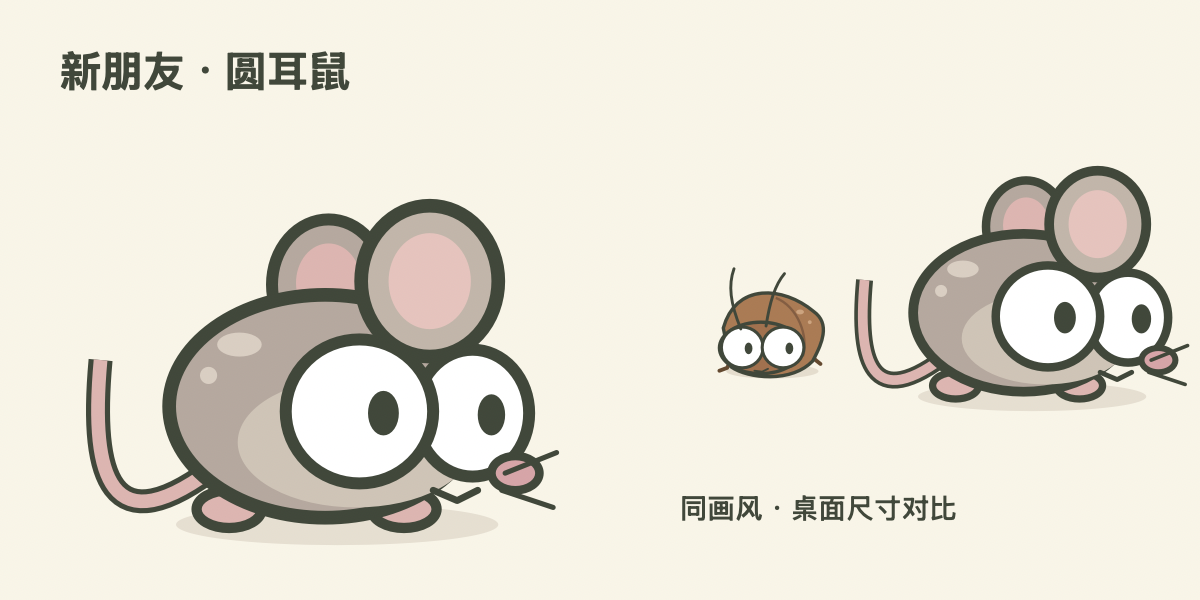
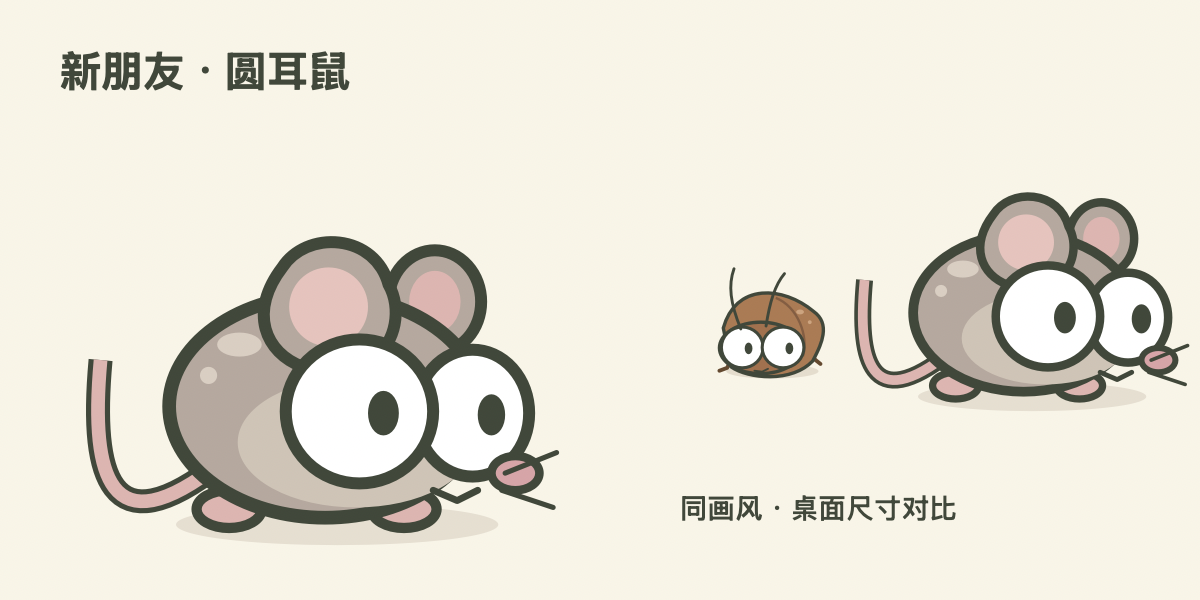
Refine mouse ears with natural placement and open ear roots

Changed region(s): [[0.2158, 0.33, 0.4317, 0.63], [0.8017, 0.27, 0.9867, 0.48]]

diff --git a/Sources/Art.swift b/Sources/Art.swift
@@ -122,12 +122,17 @@ func drawFriend(in box:NSRect,cat:Bool,phase:Double,facing:Double=1){
         let tail=NSBezierPath();tail.move(to:NSPoint(x:99,y:100));tail.curve(to:NSPoint(x:134,y:70+wig),controlPoint1:NSPoint(x:132,y:126),controlPoint2:NSPoint(x:137,y:103));ink.setStroke();tail.lineWidth=7;tail.stroke();color(0xDCA3A0).setStroke();tail.lineWidth=4;tail.stroke()
         oval(NSRect(x:18,y:112,width:94,height:12),color(0x765845,0.16))
         for x in [36.0,87.0] {oval(NSRect(x:x+wig,y:108,width:19,height:11),color(0xDCA3A0),stroke:ink,width:3)}
-        oval(NSRect(x:51,y:29,width:33,height:38),color(0xA9978C),stroke:ink,width:3.5)
-        oval(NSRect(x:58,y:36,width:19,height:23),color(0xDCA3A0))
+        oval(NSRect(x:23,y:38,width:27,height:30),color(0xA9978C),stroke:ink,width:3.5)
+        oval(NSRect(x:29,y:44,width:15,height:18),color(0xDCA3A0))
         oval(NSRect(x:23,y:51,width:91,height:65),color(0xA9978C),stroke:ink,width:4)
         oval(NSRect(x:25,y:75,width:69,height:38),color(0xC6B7A6))
-        oval(NSRect(x:18,y:25,width:40,height:44),color(0xB7A698),stroke:ink,width:4)
-        oval(NSRect(x:26,y:33,width:24,height:28),color(0xE6B4AE))
+        // The near ear grows out of the head: leave the base contour open.
+        let ear=NSBezierPath();ear.move(to:NSPoint(x:54,y:69))
+        ear.curve(to:NSPoint(x:50,y:48),controlPoint1:NSPoint(x:48,y:65),controlPoint2:NSPoint(x:46,y:55))
+        ear.curve(to:NSPoint(x:81,y:43),controlPoint1:NSPoint(x:54,y:33),controlPoint2:NSPoint(x:74,y:32))
+        ear.curve(to:NSPoint(x:75,y:72),controlPoint1:NSPoint(x:91,y:56),controlPoint2:NSPoint(x:86,y:68))
+        color(0xA9978C).setFill();ear.fill();ink.setStroke();ear.lineWidth=3.5;ear.lineCapStyle = .round;ear.stroke()
+        oval(NSRect(x:56,y:43,width:23,height:23),color(0xE6B4AE))
         oval(NSRect(x:87,y:62,width:13,height:7),color(0xD3C3B4))
         oval(NSRect(x:100,y:72,width:5,height:5),color(0xD3C3B4))
         oval(NSRect(x:9,y:67,width:33,height:37),.white,stroke:ink,width:3.5)

diff --git a/Windows/Art.cs b/Windows/Art.cs
@@ -36,9 +36,12 @@ static class Art {
             Oval(g,Color.FromArgb(40,118,88,69),18,112,94,12);
             foreach(float x in new[]{36f,87f})Oval(g,Color.FromArgb(220,163,160),x+wig,108,19,11,Ink,3);
             var fur=Color.FromArgb(169,151,140);var blush=Color.FromArgb(220,163,160);
-            Oval(g,fur,51,29,33,38,Ink,3.5f);Oval(g,blush,58,36,19,23);
+            Oval(g,fur,23,38,27,30,Ink,3.5f);Oval(g,blush,29,44,15,18);
             Oval(g,fur,23,51,91,65,Ink,4);Oval(g,Color.FromArgb(198,183,166),25,75,69,38);
-            Oval(g,Color.FromArgb(183,166,152),18,25,40,44,Ink,4);Oval(g,Color.FromArgb(230,180,174),26,33,24,28);
+            // Open base joins the near ear to the head instead of making a separate ring.
+            using var ear=new GraphicsPath();ear.AddBezier(54,69,48,65,46,55,50,48);ear.AddBezier(50,48,54,33,74,32,81,43);ear.AddBezier(81,43,91,56,86,68,75,72);
+            using var earFill=new SolidBrush(fur);using var earPen=new Pen(Ink,3.5f){StartCap=LineCap.Round,EndCap=LineCap.Round};g.FillPath(earFill,ear);g.DrawPath(earPen,ear);
+            Oval(g,Color.FromArgb(230,180,174),56,43,23,23);
             Oval(g,Color.FromArgb(211,195,180),87,62,13,7);Oval(g,Color.FromArgb(211,195,180),100,72,5,5);
             Oval(g,Color.White,9,67,33,37,Ink,3.5f);Oval(g,Color.White,37,64,43,42,Ink,3.5f);
             Oval(g,Ink,16,80,8,12);Oval(g,Ink,47,79,9,13);
